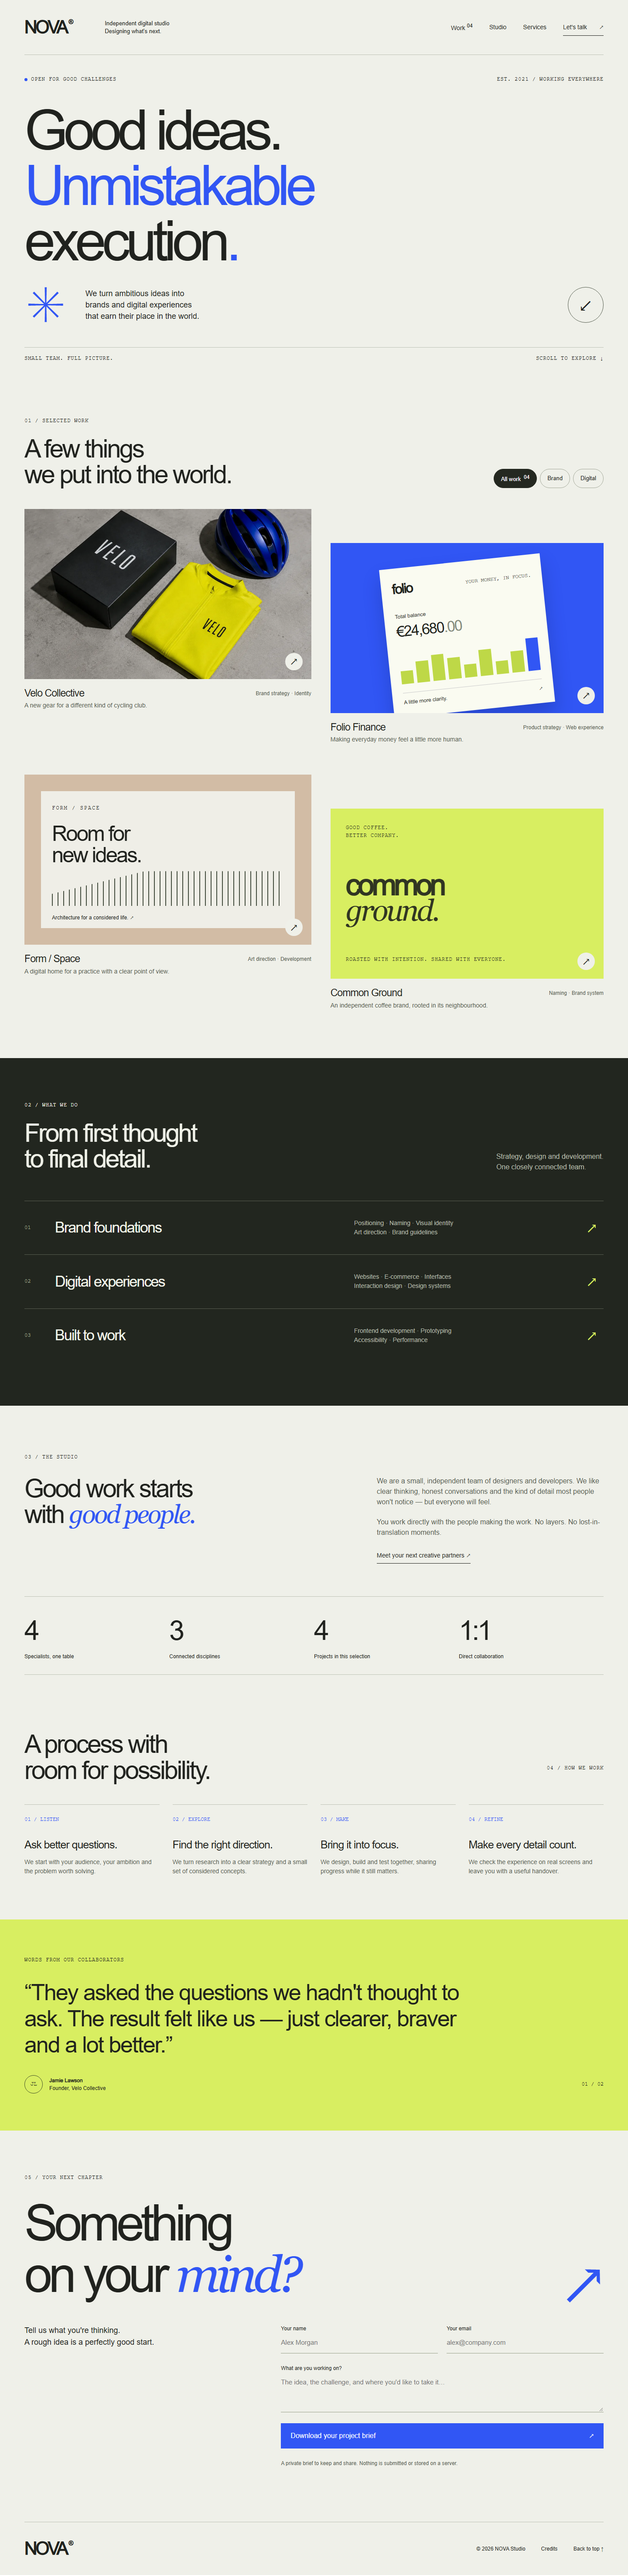
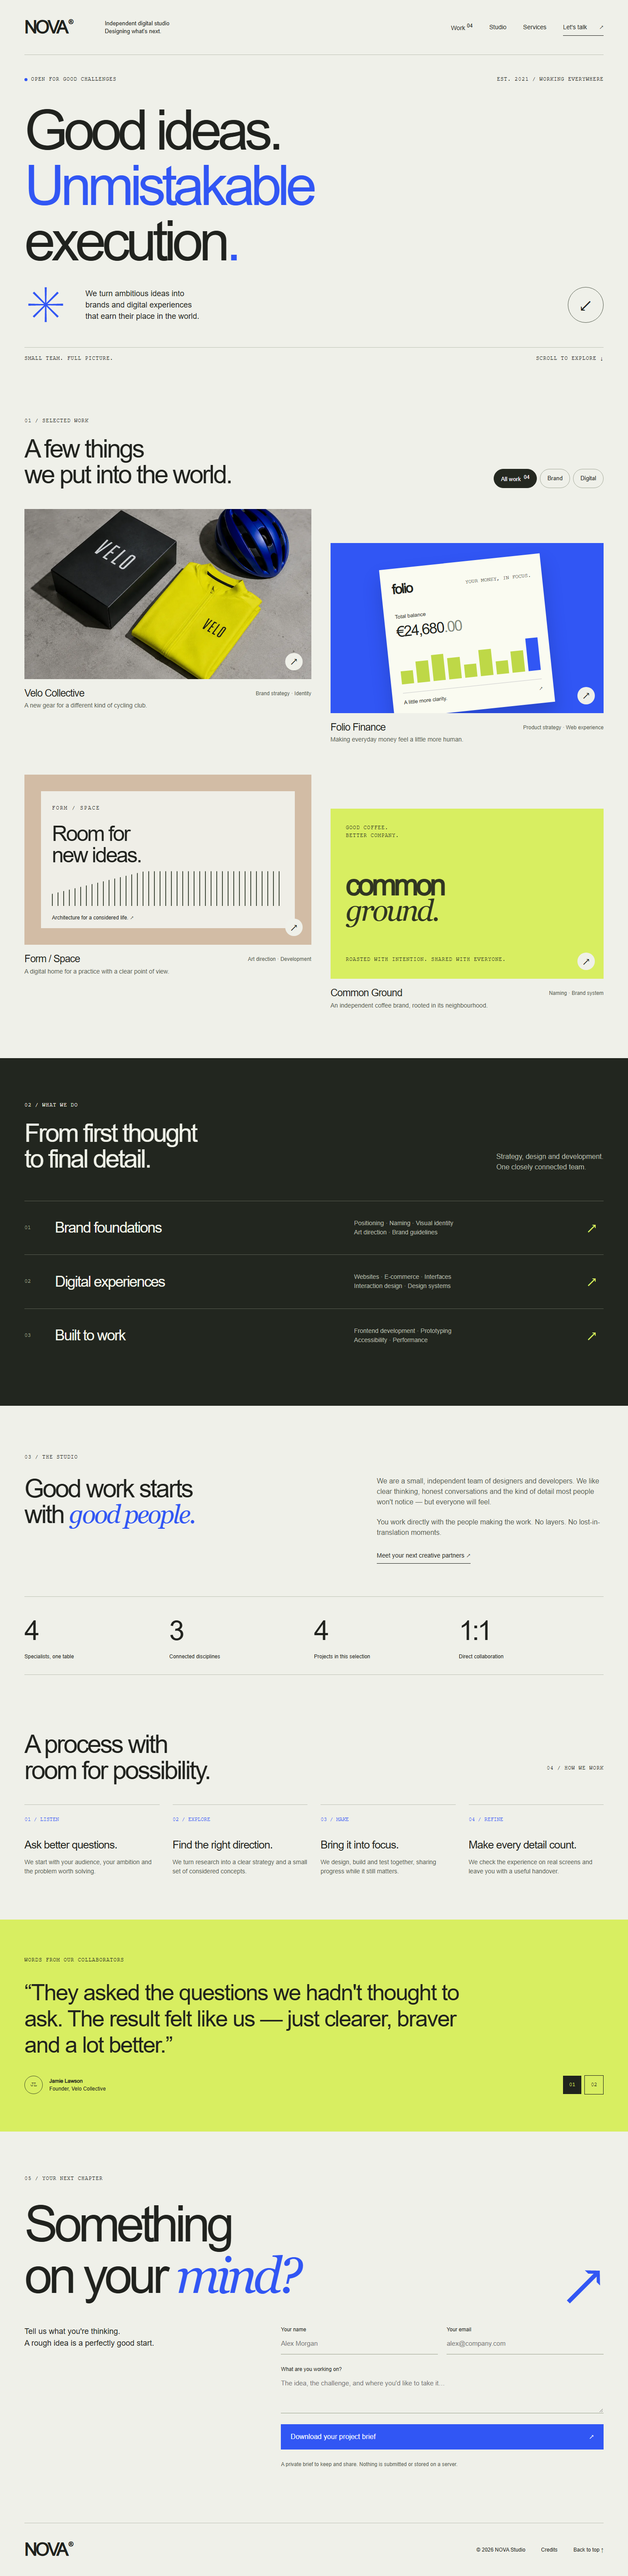
feat: complete collaborator quotes and brief validation

diff --git a/src/main.js b/src/main.js
@@ -28,6 +28,36 @@ document.querySelectorAll('[data-filter]').forEach((button) => {
       count + ' projects shown';
   });
 });
+const collaboratorQuotes = [
+  {
+    quote:
+      "“They asked the questions we hadn't thought to ask. The result felt like us — just clearer, braver and a lot better.”",
+    name: 'Jamie Lawson',
+    role: 'Founder, Velo Collective',
+    initials: 'JL',
+  },
+  {
+    quote:
+      '“Our projects finally have room to breathe. Every detail, from the first sketch to the mobile experience, was considered.”',
+    name: 'Mara Chen',
+    role: 'Director, Form / Space',
+    initials: 'MC',
+  },
+];
+document.querySelectorAll('[data-quote]').forEach((button) => {
+  button.addEventListener('click', () => {
+    const selected = collaboratorQuotes[Number(button.dataset.quote)];
+    document.querySelector('#collaborator-quote').textContent = selected.quote;
+    document.querySelector('.quote-person .avatar').textContent =
+      selected.initials;
+    document.querySelector('.quote-person strong').textContent = selected.name;
+    document.querySelector('.quote-person div > span').textContent =
+      selected.role;
+    document.querySelectorAll('[data-quote]').forEach((item) => {
+      item.setAttribute('aria-pressed', String(item === button));
+    });
+  });
+});
 const cases = {
   velo: {
     name: 'Velo Collective',
@@ -154,8 +184,24 @@ const counterObserver = new IntersectionObserver((entries) =>
 document
   .querySelectorAll('[data-count]')
   .forEach((element) => counterObserver.observe(element));
-document.querySelector('#brief-form').addEventListener('submit', (event) => {
+const briefForm = document.querySelector('#brief-form');
+briefForm.addEventListener('input', (event) => {
+  event.target.setCustomValidity?.('');
+});
+briefForm.addEventListener('submit', (event) => {
   event.preventDefault();
+  for (const name of ['name', 'message']) {
+    const field = briefForm.elements.namedItem(name);
+    const minimum = name === 'message' ? 20 : 1;
+    field.setCustomValidity(
+      field.value.trim().length < minimum
+        ? name === 'message'
+          ? 'Please describe your project in at least 20 characters.'
+          : 'Please enter your name.'
+        : '',
+    );
+  }
+  if (!briefForm.reportValidity()) return;
   const values = new FormData(event.currentTarget);
   const content =
     'NOVA STUDIO — PROJECT BRIEF\n\nName: ' +

diff --git a/tests/site.spec.js b/tests/site.spec.js
@@ -16,6 +16,18 @@ test('project filters and keyboard accessible case study', async ({ page }) => {
   await expect(
     page.getByRole('button', { name: 'View Velo Collective case study' }),
   ).toBeFocused();
+  const secondQuote = page.getByRole('button', {
+    name: 'Quote from Mara Chen',
+  });
+  await secondQuote.focus();
+  await page.keyboard.press('Enter');
+  await expect(secondQuote).toHaveAttribute('aria-pressed', 'true');
+  await expect(page.locator('#collaborator-quote')).toContainText(
+    'room to breathe',
+  );
+  await expect(page.locator('.quote-person strong')).toHaveText('Mara Chen');
+  await page.getByRole('button', { name: 'Quote from Jamie Lawson' }).click();
+  await expect(page.locator('.quote-person strong')).toHaveText('Jamie Lawson');
 });
 test('validates the brief and downloads the entered information', async ({
   page,
@@ -27,6 +39,16 @@ test('validates the brief and downloads the entered information', async ({
   await expect(page.locator('#brief-status')).toBeEmpty();
   await page.getByLabel('Your name').fill('Alex Morgan');
   await page.getByLabel('Your email').fill('alex@example.com');
+  await page.getByLabel('What are you working on?').fill(' '.repeat(30));
+  await page
+    .getByRole('button', { name: 'Download your project brief' })
+    .click();
+  await expect(page.locator('#brief-status')).toBeEmpty();
+  expect(
+    await page
+      .getByLabel('What are you working on?')
+      .evaluate((field) => field.validationMessage),
+  ).toContain('20 characters');
   await page
     .getByLabel('What are you working on?')
     .fill('A new accessible website for a local architecture practice.');

diff --git a/index.html b/index.html
@@ -278,7 +278,11 @@
       <section class="testimonial">
         <div class="wrap">
           <span class="eyebrow">WORDS FROM OUR COLLABORATORS</span>
-          <blockquote>
+          <blockquote
+            id="collaborator-quote"
+            aria-live="polite"
+            aria-atomic="true"
+          >
             “They asked the questions we hadn't thought to ask. The result felt
             like us — just clearer, braver and a lot better.”
           </blockquote>
@@ -287,7 +291,28 @@
             <div>
               <strong>Jamie Lawson</strong><span>Founder, Velo Collective</span>
             </div>
-            <span>01 / 02</span>
+            <div
+              class="quote-controls"
+              role="group"
+              aria-label="Collaborator quotes"
+            >
+              <button
+                type="button"
+                data-quote="0"
+                aria-label="Quote from Jamie Lawson"
+                aria-pressed="true"
+              >
+                01
+              </button>
+              <button
+                type="button"
+                data-quote="1"
+                aria-label="Quote from Mara Chen"
+                aria-pressed="false"
+              >
+                02
+              </button>
+            </div>
           </div>
         </div>
       </section>

diff --git a/src/style.css b/src/style.css
@@ -557,9 +557,26 @@ h2 {
   display: block;
   font-size: 12px;
 }
-.quote-person > span:last-child {
+.quote-controls {
   margin-left: auto;
+  display: flex;
+  gap: 6px;
+}
+.quote-controls button {
+  width: 44px;
+  height: 44px;
+  border: 1px solid currentColor;
+  background: transparent;
+  color: #20231d;
   font: 12px monospace;
+  cursor: pointer;
+}
+.quote-controls button[aria-pressed='true'] {
+  color: #d8ee61;
+  background: #20231d;
+}
+.quote-person > div:not(.quote-controls) {
+  flex: 1;
 }
 .contact {
   padding-block: 100px;

diff --git a/QA.md b/QA.md
@@ -27,7 +27,7 @@ On this workspace the browser download was shared through PLAYWRIGHT_BROWSERS_PA
 
 ## Coverage
 
-Project filtering and announced counts; case dialog opening, Escape and focus restoration; required form validation and actual brief download; navigation at 360px; local links and image loading; console errors; automated accessibility for main page and case dialog.
+Project filtering and announced counts; case dialog opening, Escape and focus restoration; required and whitespace-aware form validation and actual brief download; keyboard-selectable collaborator quotes; navigation at 360px; local links and image loading; console errors; automated accessibility for main page and case dialog.
 
 ## Fixes made during review
 
@@ -35,4 +35,4 @@ Small secondary labels were increased to at least 12px. Secondary text colours w
 
 ## Verification limits
 
-Automated accessibility checks complement keyboard and visual review; they are not a complete accessibility certification. Browser testing here used Chromium. GitHub Actions and the actual Pages deployment have not run remotely because GitHub CLI/authentication is unavailable in this environment. A live URL must be added only after successful publication.
+Automated accessibility checks complement keyboard and visual review; they are not a complete accessibility certification. Browser testing here used Chromium. GitHub Actions and the actual Pages deployment have not run remotely because GitHub CLI is not installed in this environment; authentication could not be checked. A live URL must be added only after successful publication.

diff --git a/README.md b/README.md
@@ -13,7 +13,7 @@ An independent studio website that brings brand work, digital craft and a direct
 - Four detailed project case studies with keyboard-accessible native dialogs.
 - Brand/digital filtering with visible state and live announcements.
 - Responsive navigation, progressive section reveals, animated counters and restrained pointer interaction.
-- Services, process, studio, collaborator quote and a private project brief builder.
+- Services, process, studio, keyboard-selectable collaborator quotes and a private project brief builder.
 - Validated brief form exports entered content without transmitting personal information.
 
 ## Technology
